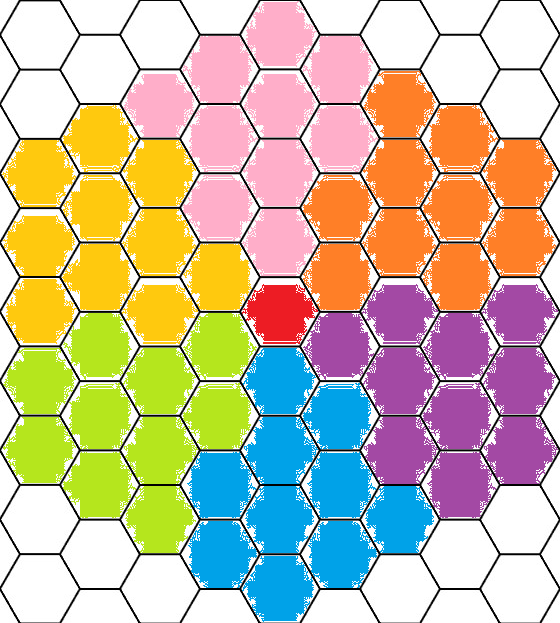
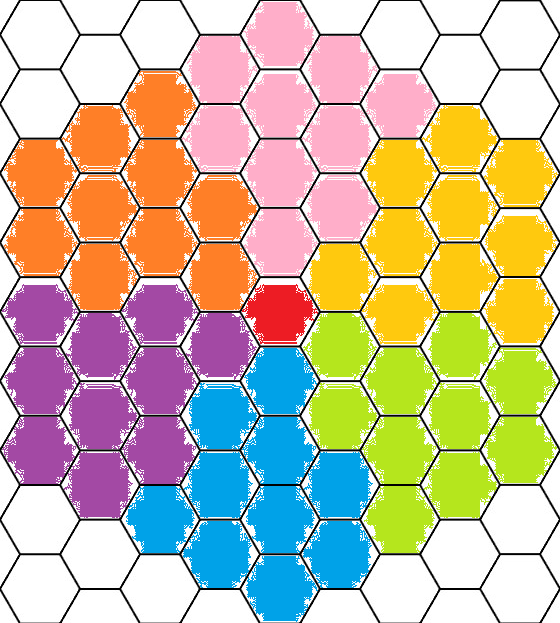
visualize vision trees

diff --git a/world/map.py b/world/map.py
@@ -1,3 +1,6 @@
+from math import *
+sign = lambda x: copysign(1, x)
+
 class Node():
     def __init__(self, index, neighbors: list):
         self.index = index
@@ -7,16 +10,16 @@ class Node():
     
 def calcVisionTree(startingNode: Node, distance: int):
     mergedDict = {n:True for n in startingNode.neighbors + [startingNode]}
-    visionTree = [[[node]] + [[] for i in range(distance)] for node in startingNode.neighbors]
+    visionTree = [[[node]] + [[] for i in range(distance - 1)] for node in startingNode.neighbors]
 
-    for i in range(distance):
+    for i in range(distance - 1):
         visionLayer = {}
         for t in range(len(visionTree)):
             nodesThisTree = 0
             for n in visionTree[t][i]:
                 # n is a node
                 for j in range(len(n.neighbors)):
-                    nextNode = n.neighbors[(j + t) % len(n.neighbors)]
+                    nextNode = n.neighbors[(j + t + 3 * (t % 2)) % len(n.neighbors)]
                     if nextNode not in mergedDict.keys():
                         if nextNode not in visionLayer.keys():
                             visionLayer[nextNode] = t
@@ -30,10 +33,13 @@ def calcVisionTree(startingNode: Node, distance: int):
             cone = visionLayer[node]
             visionTree[cone][i+1].append(node)
             mergedDict[node] = True
-    for cone in range(len(visionTree)):
-        print ("cone {0}".format(cone))
-        for sightrange in range(len(visionTree[cone])):
-            print ([node.index for node in visionTree[cone][sightrange]])
+    # for cone in range(len(visionTree)):
+    #     print ("cone {0}".format(cone))
+    #     for sightrange in range(len(visionTree[cone])):
+    #         visionTree[cone][sightrange].sort(key = lambda node: node.index)
+    #         print ([node.index for node in visionTree[cone][sightrange]])
+    
+    return visionTree
 
 class Map():
     def __init__(self, mapWidth, mapHeight):
@@ -54,11 +60,27 @@ class Map():
             # rotate the list
             # node.neighbors = node.neighbors[i * 11 % 6:] + node.neighbors[:i * 11 % 6]
         # print ("node {0} neighbors: {1}".format(int(self.totalNodes / 2), [n.index for n in self.nodes[int(self.totalNodes / 2)].neighbors]))
+
+        for node in self.nodes:
+            node.visionTree = calcVisionTree(node, 10)
     
     def print(self):
         for y in range(self.mapHeight):
             print (''.join(["{0}    ".format(y + n * self.mapHeight * 2) for n in range(int(self.mapWidth / 2))]))
             print (''.join(["  {0}  ".format(y + self.mapHeight + n * self.mapHeight * 2) for n in range(int(self.mapWidth / 2))]))
+
+    def printVisionCone(self, startIndex: int, direction: int):
+        visionCone = self.nodes[startIndex].visionTree[direction]
+        nodeList = [node.index for layer in visionCone for node in layer]
+
+        def showVision(index):
+            if index == startIndex: return "#"* len(str(index))
+            return index if index not in nodeList else "█"*(len(str(index)))
+
+        for y in range(self.mapHeight):
+            print(''.join(["{0}    ".format(showVision(y + n * self.mapHeight * 2)) for n in range(int(self.mapWidth / 2))]))
+            print(''.join(["  {0}  ".format(showVision(y + self.mapHeight + n * self.mapHeight * 2)) for n in range(int(self.mapWidth / 2))]))
+
 
 # map = Map(16, 10)
 # calcVisionTree(map.nodes[45], 3)

diff --git a/world/test.py b/world/test.py
@@ -1,4 +1,11 @@
 from map import *
-testmap = Map(20, 14)
+mapWidth = 50
+mapHeight = 25
+centerTile = int(mapWidth * mapHeight / 2 + mapHeight / 2)
+testmap = Map(mapWidth, mapHeight)
 testmap.print()
-calcVisionTree(testmap.nodes[146], 5)
+print()
+# calcVisionTree(testmap.nodes[146], 8)
+for n in range(6):
+    testmap.printVisionCone(centerTile, n)
+    print()
